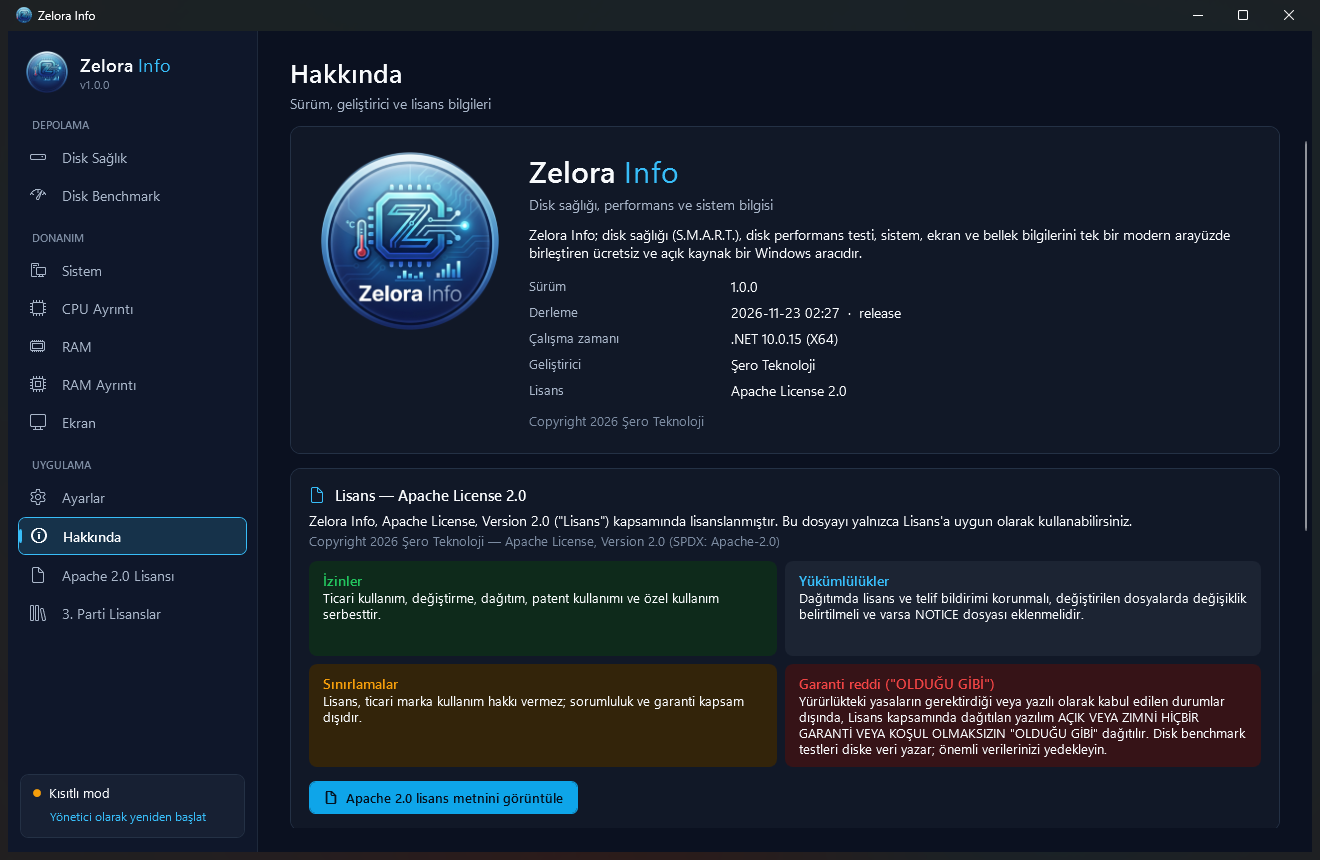
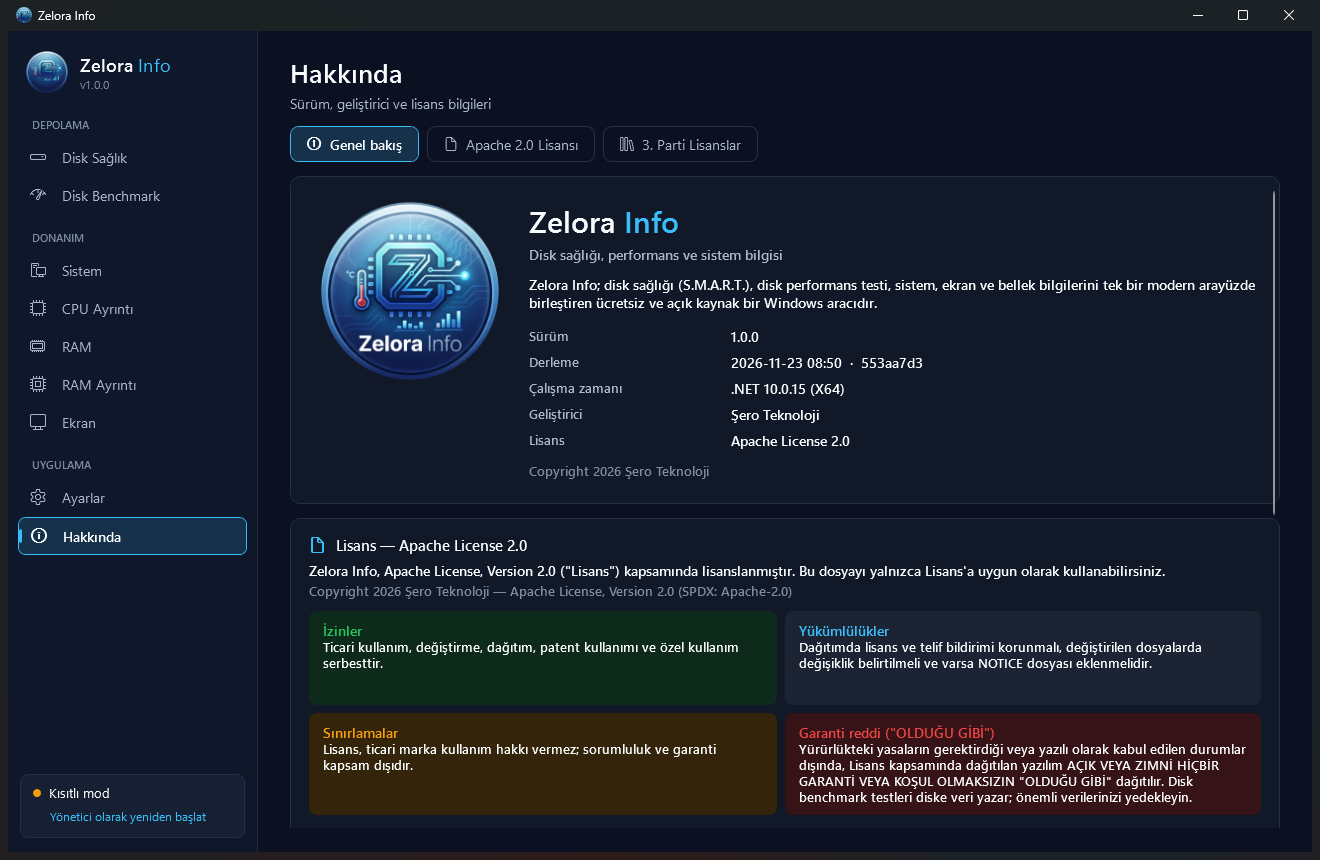
Move license screens into tabs on the About page
- About page now has three tabs: Overview, Apache 2.0 License, Third-Party Licenses
- License and third-party entries removed from the sidebar (and therefore from the tray menu)
- The "view license" buttons on the overview now switch tabs instead of navigating
- New localized key About.Tab.Overview (TR/EN/DE/FR/IT/ES); README and screenshots updated

diff --git a/src/ZeloraInfo.App/Views/AboutView.xaml b/src/ZeloraInfo.App/Views/AboutView.xaml
@@ -1,8 +1,62 @@
 <UserControl x:Class="ZeloraInfo.App.Views.AboutView"
              xmlns="http://schemas.microsoft.com/winfx/2006/xaml/presentation"
              xmlns:x="http://schemas.microsoft.com/winfx/2006/xaml"
-             xmlns:lic="clr-namespace:ZeloraInfo.Core.Licensing;assembly=ZeloraInfo.Core">
-    <ScrollViewer VerticalScrollBarVisibility="Auto" HorizontalScrollBarVisibility="Disabled" Padding="32,0,32,24">
+             xmlns:lic="clr-namespace:ZeloraInfo.Core.Licensing;assembly=ZeloraInfo.Core"
+             xmlns:views="clr-namespace:ZeloraInfo.App.Views">
+    <UserControl.Resources>
+        <!-- Pill-style tab headers matching the Zelora palette -->
+        <Style x:Key="AboutTab" TargetType="TabItem">
+            <Setter Property="Cursor" Value="Hand" />
+            <Setter Property="Foreground" Value="{DynamicResource Brush.TextSecondary}" />
+            <Setter Property="FontSize" Value="13.5" />
+            <Setter Property="Template">
+                <Setter.Value>
+                    <ControlTemplate TargetType="TabItem">
+                        <Border x:Name="Bd" CornerRadius="8" Padding="16,8" Margin="0,0,8,0" BorderThickness="1"
+                                Background="Transparent" BorderBrush="{DynamicResource Brush.CardBorder}">
+                            <ContentPresenter ContentSource="Header" VerticalAlignment="Center" />
+                        </Border>
+                        <ControlTemplate.Triggers>
+                            <Trigger Property="IsMouseOver" Value="True">
+                                <Setter TargetName="Bd" Property="Background" Value="{DynamicResource Brush.NavHover}" />
+                                <Setter Property="Foreground" Value="{DynamicResource Brush.TextPrimary}" />
+                            </Trigger>
+                            <Trigger Property="IsSelected" Value="True">
+                                <Setter TargetName="Bd" Property="Background" Value="{DynamicResource Brush.NavSelected}" />
+                                <Setter TargetName="Bd" Property="BorderBrush" Value="{DynamicResource Brush.Accent}" />
+                                <Setter Property="Foreground" Value="{DynamicResource Brush.TextPrimary}" />
+                                <Setter Property="FontWeight" Value="SemiBold" />
+                            </Trigger>
+                            <Trigger Property="IsKeyboardFocused" Value="True">
+                                <Setter TargetName="Bd" Property="BorderThickness" Value="2" />
+                            </Trigger>
+                        </ControlTemplate.Triggers>
+                    </ControlTemplate>
+                </Setter.Value>
+            </Setter>
+        </Style>
+    </UserControl.Resources>
+
+    <TabControl Margin="32,0,32,24" SelectedIndex="{Binding SelectedTabIndex}" Background="Transparent" BorderThickness="0" Padding="0"
+                ItemContainerStyle="{StaticResource AboutTab}">
+        <TabControl.Template>
+            <ControlTemplate TargetType="TabControl">
+                <DockPanel>
+                    <TabPanel DockPanel.Dock="Top" IsItemsHost="True" Margin="0,0,0,14" KeyboardNavigation.TabIndex="1" />
+                    <ContentPresenter ContentSource="SelectedContent" />
+                </DockPanel>
+            </ControlTemplate>
+        </TabControl.Template>
+
+        <!-- ===================== Overview ===================== -->
+        <TabItem AutomationProperties.Name="{DynamicResource About.Tab.Overview}">
+            <TabItem.Header>
+                <StackPanel Orientation="Horizontal">
+                    <TextBlock Style="{StaticResource Text.Icon}" Text="&#xE946;" FontSize="14" />
+                    <TextBlock Margin="8,0,0,0" Text="{DynamicResource About.Tab.Overview}" />
+                </StackPanel>
+            </TabItem.Header>
+    <ScrollViewer VerticalScrollBarVisibility="Auto" HorizontalScrollBarVisibility="Disabled">
         <StackPanel MaxWidth="1100" HorizontalAlignment="Stretch">
             <!-- Identity -->
             <Border Style="{StaticResource Card}" Padding="24">
@@ -120,4 +174,28 @@
             </Border>
         </StackPanel>
     </ScrollViewer>
+        </TabItem>
+
+        <!-- ===================== Apache 2.0 ===================== -->
+        <TabItem AutomationProperties.Name="{DynamicResource Nav.License}">
+            <TabItem.Header>
+                <StackPanel Orientation="Horizontal">
+                    <TextBlock Style="{StaticResource Text.Icon}" Text="&#xE8A5;" FontSize="14" />
+                    <TextBlock Margin="8,0,0,0" Text="{DynamicResource Nav.License}" />
+                </StackPanel>
+            </TabItem.Header>
+            <views:LicenseView DataContext="{Binding License}" />
+        </TabItem>
+
+        <!-- ===================== Third-party ===================== -->
+        <TabItem AutomationProperties.Name="{DynamicResource Nav.ThirdParty}">
+            <TabItem.Header>
+                <StackPanel Orientation="Horizontal">
+                    <TextBlock Style="{StaticResource Text.Icon}" Text="&#xE8F1;" FontSize="14" />
+                    <TextBlock Margin="8,0,0,0" Text="{DynamicResource Nav.ThirdParty}" />
+                </StackPanel>
+            </TabItem.Header>
+            <views:ThirdPartyView DataContext="{Binding ThirdParty}" />
+        </TabItem>
+    </TabControl>
 </UserControl>

diff --git a/src/ZeloraInfo.App/MainWindow.xaml b/src/ZeloraInfo.App/MainWindow.xaml
@@ -22,8 +22,6 @@
         <DataTemplate DataType="{x:Type vm:RamDetailsViewModel}"><views:RamDetailsView /></DataTemplate>
         <DataTemplate DataType="{x:Type vm:SettingsViewModel}"><views:SettingsView /></DataTemplate>
         <DataTemplate DataType="{x:Type vm:AboutViewModel}"><views:AboutView /></DataTemplate>
-        <DataTemplate DataType="{x:Type vm:LicenseViewModel}"><views:LicenseView /></DataTemplate>
-        <DataTemplate DataType="{x:Type vm:ThirdPartyViewModel}"><views:ThirdPartyView /></DataTemplate>
     </Window.Resources>
 
     <Grid x:Name="Root">

diff --git a/src/ZeloraInfo.App/Views/ThirdPartyView.xaml b/src/ZeloraInfo.App/Views/ThirdPartyView.xaml
@@ -2,7 +2,8 @@
              xmlns="http://schemas.microsoft.com/winfx/2006/xaml/presentation"
              xmlns:x="http://schemas.microsoft.com/winfx/2006/xaml"
              xmlns:lic="clr-namespace:ZeloraInfo.Core.Licensing;assembly=ZeloraInfo.Core">
-    <Grid Margin="32,0,32,24">
+    <!-- Hosted as a tab of the About page -->
+    <Grid>
         <Grid.ColumnDefinitions>
             <ColumnDefinition Width="340" />
             <ColumnDefinition Width="16" />

diff --git a/src/ZeloraInfo.App/Views/LicenseView.xaml b/src/ZeloraInfo.App/Views/LicenseView.xaml
@@ -1,7 +1,8 @@
 <UserControl x:Class="ZeloraInfo.App.Views.LicenseView"
              xmlns="http://schemas.microsoft.com/winfx/2006/xaml/presentation"
              xmlns:x="http://schemas.microsoft.com/winfx/2006/xaml">
-    <Grid Margin="32,0,32,24">
+    <!-- Hosted as a tab of the About page -->
+    <Grid>
         <Grid.RowDefinitions>
             <RowDefinition Height="Auto" />
             <RowDefinition Height="*" />

diff --git a/src/ZeloraInfo.App/ViewModels/AboutViewModels.cs b/src/ZeloraInfo.App/ViewModels/AboutViewModels.cs
@@ -10,15 +10,22 @@ using ZeloraInfo.Core.Localization;
 
 namespace ZeloraInfo.App.ViewModels;
 
+/// <summary>
+/// About page with three tabs: overview, the full Apache 2.0 license and the third-party licenses.
+/// </summary>
 public sealed partial class AboutViewModel : ViewModelBase
 {
-    private readonly AppServices _services;
-    private readonly Action<string> _navigate;
+    public const int OverviewTab = 0;
+    public const int LicenseTab = 1;
+    public const int ThirdPartyTab = 2;
 
-    public AboutViewModel(AppServices services, Action<string> navigate)
+    private readonly AppServices _services;
+
+    public AboutViewModel(AppServices services)
     {
         _services = services;
-        _navigate = navigate;
+        License = new LicenseViewModel(services);
+        ThirdParty = new ThirdPartyViewModel(services);
         try
         {
             Components = AppInfo.LoadThirdPartyManifest().Components;
@@ -36,7 +43,11 @@ public sealed partial class AboutViewModel : ViewModelBase
     public IReadOnlyList<ThirdPartyComponent> Components { get; }
     public string Copyright => "Copyright 2026 Şero Teknoloji";
 
+    public LicenseViewModel License { get; }
+    public ThirdPartyViewModel ThirdParty { get; }
+
     [ObservableProperty] private IReadOnlyList<InfoRow> _rows = [];
+    [ObservableProperty] private int _selectedTabIndex = OverviewTab;
 
     private void BuildRows()
     {
@@ -50,8 +61,8 @@ public sealed partial class AboutViewModel : ViewModelBase
         ];
     }
 
-    [RelayCommand] private void OpenLicense() => _navigate("License");
-    [RelayCommand] private void OpenThirdParty() => _navigate("ThirdParty");
+    [RelayCommand] private void OpenLicense() => SelectedTabIndex = LicenseTab;
+    [RelayCommand] private void OpenThirdParty() => SelectedTabIndex = ThirdPartyTab;
     [RelayCommand] private void OpenUrl(string url) => _services.Ui.OpenUrl(url);
 
     public override void OnLanguageChanged()
@@ -59,6 +70,8 @@ public sealed partial class AboutViewModel : ViewModelBase
         base.OnLanguageChanged();
         BuildRows();
         OnPropertyChanged(nameof(Components));
+        License.OnLanguageChanged();
+        ThirdParty.OnLanguageChanged();
     }
 }
 

diff --git a/src/ZeloraInfo.Core/Localization/LanguageCatalog.Romance.cs b/src/ZeloraInfo.Core/Localization/LanguageCatalog.Romance.cs
@@ -480,6 +480,7 @@ public static partial class LanguageCatalog
             "Zelora Info est un utilitaire Windows gratuit et open source qui réunit la santé des disques (S.M.A.R.T.), le benchmark de disque ainsi que les informations système, écran et mémoire dans une interface moderne.",
             "Zelora Info è un'utilità Windows gratuita e open source che riunisce salute dei dischi (S.M.A.R.T.), benchmark del disco e informazioni su sistema, schermo e memoria in un'unica interfaccia moderna.",
             "Zelora Info es una utilidad de Windows gratuita y de código abierto que combina la salud de los discos (S.M.A.R.T.), el benchmark de disco y la información del sistema, pantalla y memoria en una interfaz moderna."),
+        ["About.Tab.Overview"] = R("Vue d'ensemble", "Panoramica", "Resumen"),
         ["About.Version"] = R("Version", "Versione", "Versión"),
         ["About.Build"] = R("Build", "Build", "Compilación"),
         ["About.Runtime"] = R("Environnement d'exécution", "Runtime", "Entorno de ejecución"),

diff --git a/src/ZeloraInfo.Core/Localization/LanguageCatalog.cs b/src/ZeloraInfo.Core/Localization/LanguageCatalog.cs
@@ -418,6 +418,7 @@ public static partial class LanguageCatalog
             "Zelora Info; disk sağlığı (S.M.A.R.T.), disk performans testi, sistem, ekran ve bellek bilgilerini tek bir modern arayüzde birleştiren ücretsiz ve açık kaynak bir Windows aracıdır.",
             "Zelora Info is a free, open-source Windows utility that combines disk health (S.M.A.R.T.), disk benchmarking and system, display and memory information in a single modern interface.",
             "Zelora Info ist ein kostenloses Open-Source-Windows-Tool, das Datenträgerzustand (S.M.A.R.T.), Datenträger-Benchmark sowie System-, Bildschirm- und Speicherinformationen in einer modernen Oberfläche vereint."),
+        ["About.Tab.Overview"] = E("Genel bakış", "Overview", "Übersicht"),
         ["About.Version"] = E("Sürüm", "Version", "Version"),
         ["About.Build"] = E("Derleme", "Build", "Build"),
         ["About.Runtime"] = E("Çalışma zamanı", "Runtime", "Laufzeit"),

diff --git a/src/ZeloraInfo.App/ViewModels/MainViewModel.cs b/src/ZeloraInfo.App/ViewModels/MainViewModel.cs
@@ -68,9 +68,7 @@ public sealed partial class MainViewModel : ObservableObject
             new NavGroup("Nav.Group.App",
             [
                 new NavItem("Settings", "", () => new SettingsViewModel(services)),
-                new NavItem("About", "", () => new AboutViewModel(services, Navigate)),
-                new NavItem("License", "", () => new LicenseViewModel(services)),
-                new NavItem("ThirdParty", "", () => new ThirdPartyViewModel(services)),
+                new NavItem("About", "", () => new AboutViewModel(services)),
             ]),
         ];
 

diff --git a/README.md b/README.md
@@ -44,7 +44,7 @@
 | **RAM Ayrıntı** | Ham SMBIOS (tip 16/17) ile boş slotlar dahil tüm slotlar, bellek tipi, kanal modu (Single/Dual/Quad… — slot etiketlerinden çıkarım), DRAM frekansı ve etkin MT/s, ECC, rank, veri/toplam genişlik, min/maks/yapılandırılmış voltaj (VDD), zamanlamalar bölümü (bkz. [sınırlamalar](#sınırlamalar)), seri numarası maskeleme, TXT/JSON rapor |
 | **Ekran** | Tüm monitörler, birincil ekran, aktif ve önerilen (yerel) çözünürlük, yenileme hızı ve azami Hz, DPI / ölçekleme %, renk derinliği ve bit/kanal, HDR (destek/durum), fiziksel boyut ve diyagonal, en-boy oranı, yönlendirme, bağlantı tipi (HDMI/DP/eDP…), sanal masaüstü ve çalışma alanı koordinatları |
 | **Ayarlar** | Uygulamanın tüm seçenekleri tek ekranda: 6 dil, 5 tema + Windows'u izle, arayüz ölçeği, açılış sayfası, kapat (X) davranışı, tepsiye küçültme, Windows ile başlatma, her açılışta yönetici izni, S.M.A.R.T. yenileme/eşikler/birim, canlı yenileme aralığı, seri maskeleme, benchmark varsayılanları, geçici dosya temizliği, varsayılana sıfırlama |
-| **Hakkında & Lisanslar** | Sürüm/derleme/çalışma zamanı, Şero Teknoloji, Apache 2.0 özeti ve tam metin ekranı (kopyala / .txt kaydet), 3. parti lisanslar ekranı (arama, ayrıntı, tam lisans metni, kopyalama) |
+| **Hakkında** | Üç sekme: **Genel bakış** (sürüm/derleme/çalışma zamanı, Şero Teknoloji, Apache 2.0 özeti, 3. parti bileşen listesi) · **Apache 2.0 Lisansı** (tam metin, kopyala / .txt kaydet) · **3. Parti Lisanslar** (arama, ayrıntı, tam lisans metni, kopyalama) |
 
 Ek olarak:
 
@@ -67,9 +67,13 @@ Ek olarak:
 |---|---|
 | ![Settings](docs/images/screenshots/settings-themes.png) | ![Daylight](docs/images/screenshots/theme-daylight.png) |
 
-| Hakkında | Kapatma penceresi |
+| Hakkında › Genel bakış | Hakkında › 3. Parti Lisanslar |
 |---|---|
-| ![About](docs/images/screenshots/about.png) | ![Close](docs/images/screenshots/close-dialog.png) |
+| ![About](docs/images/screenshots/about.png) | ![Third-party](docs/images/screenshots/about-third-party.png) |
+
+| Kapatma penceresi |
+|---|
+| ![Close](docs/images/screenshots/close-dialog.png) |
 
 ## Kurulum
 
@@ -191,9 +195,9 @@ you may not use this software except in compliance with the License.
 You may obtain a copy of the License at http://www.apache.org/licenses/LICENSE-2.0
 ```
 
-Tam metin: [LICENSE](LICENSE) (uygulamada **Apache 2.0 Lisansı** ekranı). Atıf bildirimleri: [NOTICE](NOTICE).
+Tam metin: [LICENSE](LICENSE) (uygulamada **Hakkında › Apache 2.0 Lisansı** sekmesi). Atıf bildirimleri: [NOTICE](NOTICE).
 
-3. parti bileşenler [`third-party-licenses.json`](third-party-licenses.json) manifestinde tutulur ve uygulamadaki **3. Parti Lisanslar** ekranında aranabilir şekilde, tam lisans metinleriyle gösterilir:
+3. parti bileşenler [`third-party-licenses.json`](third-party-licenses.json) manifestinde tutulur ve uygulamadaki **Hakkında › 3. Parti Lisanslar** sekmesinde aranabilir şekilde, tam lisans metinleriyle gösterilir:
 
 | Bileşen | Sürüm | Lisans | Kapsam |
 |---|---|---|---|
